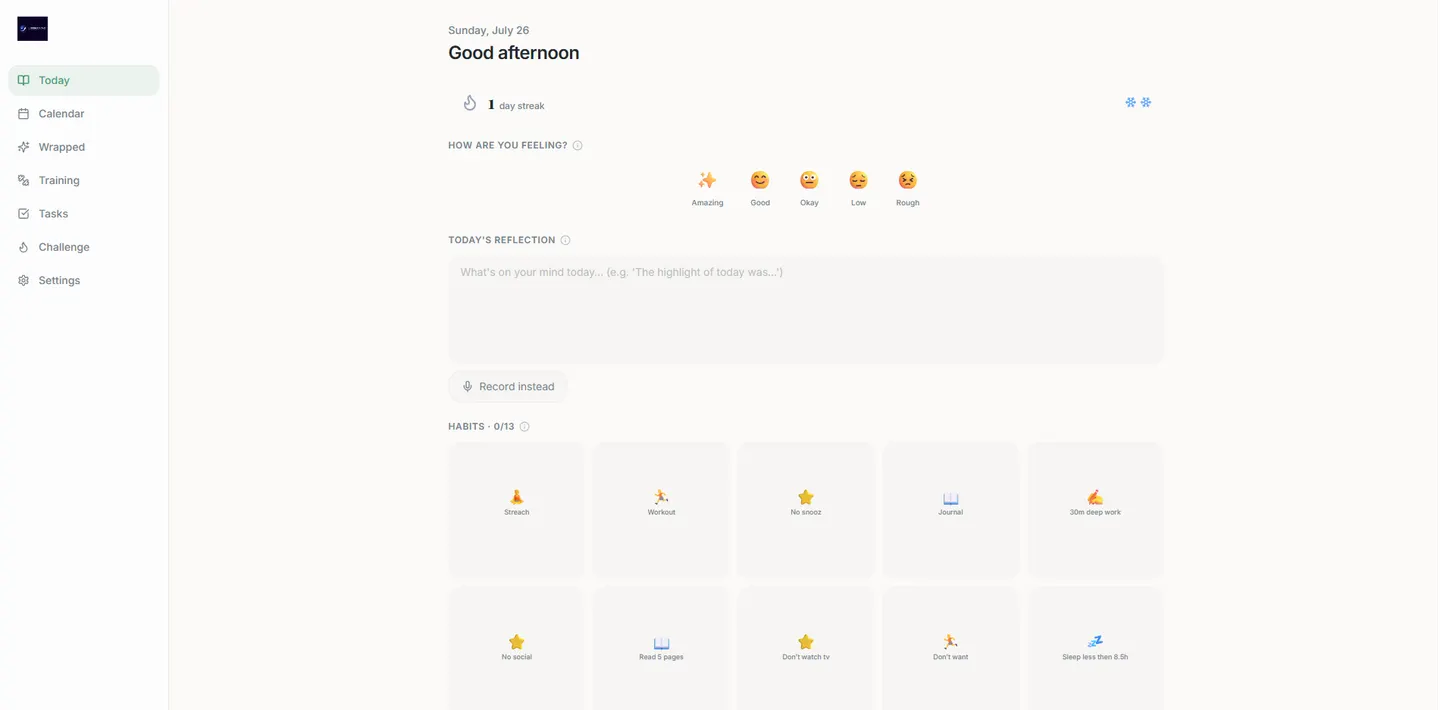
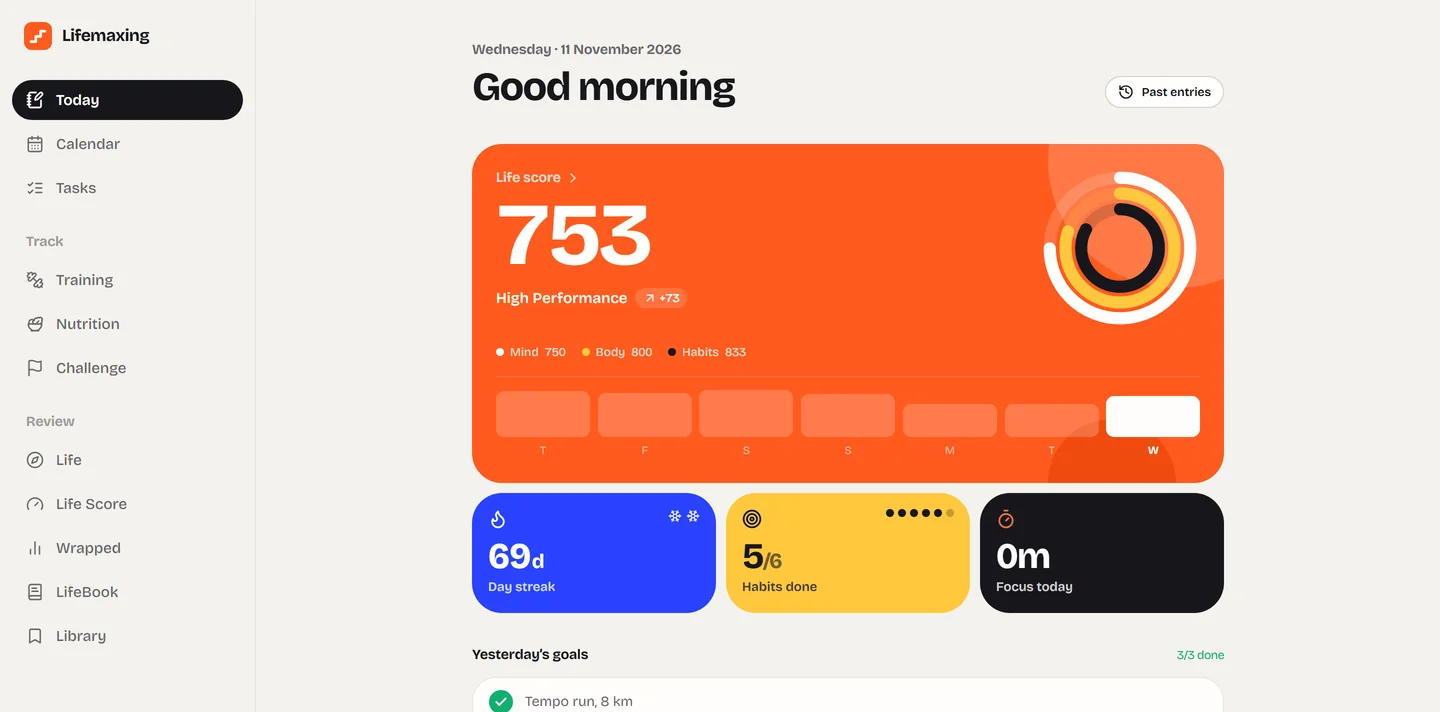
Show the redesigned Lifemaxing app on its card and link to the new address
The card's still picture showed a long-gone version of the app, and the
card linked to the old Base44 address. The picture is now the Today page
of the redesigned app (sample account), and every Lifemaxing link points
to https://lifemaxing-bice.vercel.app/, where the app lives now.

diff --git a/mashtatech/index.html b/mashtatech/index.html
@@ -527,7 +527,7 @@ html.sm-no-tr *,html.sm-no-tr *::before,html.sm-no-tr *::after{transition:none !
       <button id="prevBtn" class="carousel-nav" aria-label="" style="position:absolute;left:5%;top:50%;margin-top:-23px;width:46px;height:46px;border:1px solid rgba(233,235,232,.18);background:rgba(21,24,21,.72);backdrop-filter:blur(14px);color:#E9EBE8;font-family:'IBM Plex Mono',monospace;font-size:17px;cursor:pointer;z-index:60;display:flex;align-items:center;justify-content:center;transition:background .3s,color .3s,border-color .3s;">‹</button>
       <button id="nextBtn" class="carousel-nav" aria-label="" style="position:absolute;right:5%;top:50%;margin-top:-23px;width:46px;height:46px;border:1px solid rgba(233,235,232,.18);background:rgba(21,24,21,.72);backdrop-filter:blur(14px);color:#E9EBE8;font-family:'IBM Plex Mono',monospace;font-size:17px;cursor:pointer;z-index:60;display:flex;align-items:center;justify-content:center;transition:background .3s,color .3s,border-color .3s;">›</button>
 
-      <ul id="workAccessibleList" style="position:absolute;width:1px;height:1px;overflow:hidden;clip:rect(0 0 0 0);white-space:nowrap;margin:0;padding:0;list-style:none;"><!--baked--><li><a href="https://www.villa-el-nof-panorama.co.il/" target="_blank" rel="noopener noreferrer">וילה אל נוף הפנורמה — אתר תדמית לנופש</a></li><li><a href="https://my-lifemaxing.base44.app/" target="_blank" rel="noopener noreferrer">Lifemaxing — פלטפורמה אישית</a></li><li><a href="https://www.castly.cloud/" target="_blank" rel="noopener noreferrer">Castly — פתרון עסקי מותאם</a></li><li><a href="https://pizzamashta.vercel.app/" target="_blank" rel="noopener noreferrer">פיצה משטא — אתר הזמנות</a></li><!--/baked--></ul>
+      <ul id="workAccessibleList" style="position:absolute;width:1px;height:1px;overflow:hidden;clip:rect(0 0 0 0);white-space:nowrap;margin:0;padding:0;list-style:none;"><!--baked--><li><a href="https://www.villa-el-nof-panorama.co.il/" target="_blank" rel="noopener noreferrer">וילה אל נוף הפנורמה — אתר תדמית לנופש</a></li><li><a href="https://lifemaxing-bice.vercel.app/" target="_blank" rel="noopener noreferrer">Lifemaxing — פלטפורמה אישית</a></li><li><a href="https://www.castly.cloud/" target="_blank" rel="noopener noreferrer">Castly — פתרון עסקי מותאם</a></li><li><a href="https://pizzamashta.vercel.app/" target="_blank" rel="noopener noreferrer">פיצה משטא — אתר הזמנות</a></li><!--/baked--></ul>
 
       <div id="workFallback" style="display:none;position:relative;height:100%;overflow:hidden;touch-action:pan-y;"></div>
     </div>
@@ -907,7 +907,7 @@ const translations = {
       { q: 'מה כלול במנוי החודשי?', a: '<p>המנוי החודשי נועד לשמור על האתר שלכם פעיל ומתוחזק לאורך זמן, וכולל את השירותים המפורטים בחבילה שבחרתם.</p><p>בהתאם לחבילה, המנוי יכול לכלול תמיכה, טיפול בתקלות, תחזוקה ושירותים נוספים כמו מערכות הזמנות, תשלומים ואוטומציות.</p><p>כך אתם לא צריכים לדאוג לתפעול השוטף של האתר — <strong>יש לכם כתובת אחת לכל מה שקשור לאתר שלכם.</strong></p>' }
     ],
     work1_name: 'וילה אל נוף הפנורמה', work1_tag: 'אתר תדמית לנופש', work1_url: 'https://www.villa-el-nof-panorama.co.il/',
-    work2_name: 'Lifemaxing', work2_tag: 'פלטפורמה אישית', work2_url: 'https://my-lifemaxing.base44.app/',
+    work2_name: 'Lifemaxing', work2_tag: 'פלטפורמה אישית', work2_url: 'https://lifemaxing-bice.vercel.app/',
     work3_name: 'Castly', work3_tag: 'פתרון עסקי מותאם', work3_url: 'https://www.castly.cloud/',
     work4_name: 'פיצה משטא', work4_tag: 'אתר הזמנות', work4_url: 'https://pizzamashta.vercel.app/',
     test1_quote: '[טקסט המלצה לדוגמה — יוחלף בציטוט אמיתי של הלקוח על הפרויקט הזה]', test1_name: 'שם הלקוח', test1_role: 'תפקיד, וילה אל נוף פנורמה',
@@ -988,7 +988,7 @@ const translations = {
       { q: "What's included in the monthly plan?", a: "<p>The monthly plan is designed to keep your site active and maintained over time, and includes the services detailed in the package you chose.</p><p>Depending on the package, the plan can include support, issue handling, maintenance, and additional services like booking systems, payments and automations.</p><p>That way you don't need to worry about the day-to-day running of the site — <strong>you have one point of contact for everything related to your site.</strong></p>" }
     ],
     work1_name: 'Villa El Nof Panorama', work1_tag: 'Hospitality site', work1_url: 'https://www.villa-el-nof-panorama.co.il/',
-    work2_name: 'Lifemaxing', work2_tag: 'Personal platform', work2_url: 'https://my-lifemaxing.base44.app/',
+    work2_name: 'Lifemaxing', work2_tag: 'Personal platform', work2_url: 'https://lifemaxing-bice.vercel.app/',
     work3_name: 'Castly', work3_tag: 'Custom business solution', work3_url: 'https://www.castly.cloud/',
     work4_name: 'Pizza Mashta', work4_tag: 'Ordering site', work4_url: 'https://pizzamashta.vercel.app/',
     test1_quote: '[Placeholder testimonial — replace with a real client quote about this project]', test1_name: 'Client Name', test1_role: 'Title, Villa El Nof Panorama',
